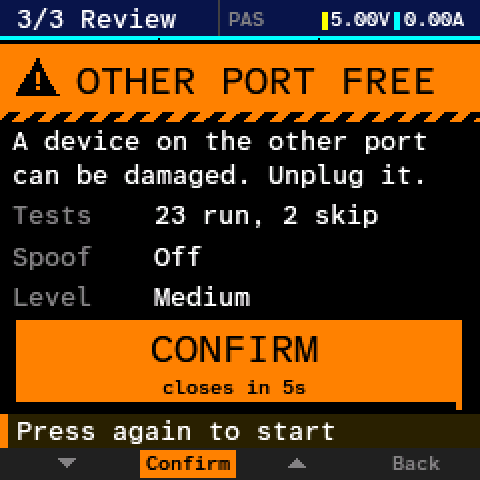
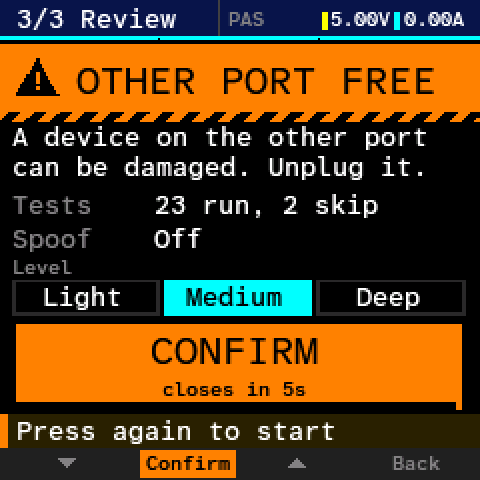
docs(readme): refresh Review and sweep pictures, Level bar text
Summary
The Review step shows the Level as a three-segment bar and a PPS/AVS sweep
row shows a 3-decimal hero with a "set ... err ..." line; the README
pictures and the Level/sweep text still showed the old key/value row and the
2-decimal hero.

Rationale
Commits a145af8d and dc7aec88 changed those pixels. README and USER_GUIDE
now describe what the screen shows.

Key Changes / Technical Details
- Re-rendered with the committed recipe (host tests, K2_DUMP, panel2png
  --scale 2, 128-colour median-cut quantize). Only three of the 25 walkthrough
  pictures changed pixel-wise: ct-review, ct-confirm, sweep-running; the other
  22 are byte-identical in pixels to the committed ones.
- README: Level bar wording (MINUS or PLUS moves between it and START, OK
  steps Light, Medium, Deep, back to Light), sweep readout bullet, sweep
  caption; fixed a missing line break before the "Review always opens" bullet.
- USER_GUIDE: Review step and Running step text, Test level setting line.
- Contact sheet old over new: runs/ui-walk/readme-sheet-old-new.png (untracked).

Changed region(s): [[0.0, 0.25, 0.9688, 0.8438], [0.5625, 0.25, 0.9062, 0.4688]]

diff --git a/docs/USER_GUIDE.md b/docs/USER_GUIDE.md
@@ -236,15 +236,15 @@ Steps of the wizard:
 
 2. **Spoof cable (2 of 3)**: the cable identity the K2 presents to the charger (it answers the charger's cable query). The list is the shared one: **Off (real cable)** (no identity), built-ins (for example EPR 50 V 5 A, CUKTECH 6A, OnePlus 100W) and your saved cables. OK picks one and goes to Review. The choice is remembered. It applies to the PD units only.
 
-3. **Review (3 of 3)**: an amber warning (**OTHER PORT FREE**: a device on the other port can be damaged, unplug it first), a short summary (Tests, Spoof), the **Level** row and START. START has the focus; its own arm and CONFIRM are the acknowledgement, so make sure the other port is empty before the first press.
-   - MINUS moves to the Level row; there OK cycles **Light**, **Medium**, **Deep** (see [Test levels](#test-levels)) and the Tests row's step count follows. PLUS goes back to START. The level of each new run starts at Settings > Test level.
+3. **Review (3 of 3)**: an amber warning (**OTHER PORT FREE**: a device on the other port can be damaged, unplug it first), a short summary (Tests, Spoof), the **Level** bar (three segments: **Light**, **Medium**, **Deep**; the picked one is filled) and START. START has the focus; its own arm and CONFIRM are the acknowledgement, so make sure the other port is empty before the first press.
+   - MINUS or PLUS moves the cursor between START and the Level bar; on the bar OK steps the pick **Light**, **Medium**, **Deep** and back to Light (see [Test levels](#test-levels)) and the Tests row's step count follows. The level of each new run starts at Settings > Test level.
    - The first OK on START opens a confirmation window: "No load! OK twice within 5 s".
    - The second OK starts the test. BACK, a changed setting, or 5 s with no OK closes the window.
    - If a real cable is between the charger and the K2 (an Ra guard check), the screen says "Cable connected: the spoof won't reach the charger." and offers **Start anyway** or **Start, skip spoof** (this run without the identity; the remembered pick stays). BACK also returns to Review.
 
 4. **Waiting for charger**: a bar counts down while the K2 waits for a source. OK or BACK cancels. On a direct plug with no VBUS the K2 tries one CC line at a time (never both): the footer reads "CC1 picked. Waking charger", then "Now on CC2. Waking charger" after a move, and the checklist row says which line holds the Rd. If nothing wakes, the footer reads "No VBUS. Hold + few secs": hold PLUS for a few seconds, which wakes some chargers.
 
-5. **Running**: the hero readout shows the step in flight, VBUS against the target on a pass-band gauge, and a grid of verdicts per step. +/- scroll the grid, OK opens a step view. OK shows **Stop** while a step is busy. A BACK hold cancels. When it ends or stops, the K2 returns to 5 V and checks it.
+5. **Running**: the hero readout shows the step in flight, VBUS against the target on a pass-band gauge, and a grid of verdicts per step. On a PPS or AVS sweep row of a Deep run the hero shows VBUS with three decimals (for example "9.000 V") and a line under it reads "set 9.000  err +0 mV": the setpoint whose request is out and VBUS minus that setpoint. Other rows keep the two-decimal hero. +/- scroll the grid, OK opens a step view. OK shows **Stop** while a step is busy. A BACK hold cancels. When it ends or stops, the K2 returns to 5 V and checks it.
 
 6. **Results**: counters (N pass, N fail, N skip, plus a "caution" counter between pass and fail when a step is a caution), a summary strip and a grid of units. OK opens the Steps list (on a "Changes" row it opens the diff against the previous run; its footer reads like "25 steps, 0 failed", or "25 steps, 2 caution" when there are cautions and no failure). A step opens its Detail (OK = Steps, long OK = Share). Long OK on Results shares the saved card once it exists.
    - A **voltage fold** is a **caution**, not a failure: a PPS or AVS level that holds its voltage but whose output drops back on a step up keeps its pass, gets an amber **CAUTION** band and the reason "folds back", and the fold is named ("folds to 9.2V above 10.5V": the lowest value measured from the fold on, and the last setpoint that still tracked). A real track break keeps its own verdict.
@@ -553,7 +553,7 @@ Radio rows: **Auto** (follows gravity), then **Manual** 0, 90, 180, 270 degrees.
 - **Screenshot**: ON allows remote and browser screen capture. Remembered. Turn it off if you do not want the screen readable over USB.
 - **Smoothing**: Off ("Raw readings"), Low ("Light calming"), Medium ("Balanced"), High ("Steady, slower"). OK cycles. Applied at once, remembered. It filters the display readings only, not the recorded data.
 - **Wake sleeping port**: OFF by default, and then the idle K2 presents no Rd and stays passive. ON lets an idle K2 hold its own Rd on one line at a time (2 s each) when that line reads like a sleeping source (about 3.0 to 3.3 V open, for example a splitter port with nothing plugged in), so the source can wake and the PD list appears without any pin. With it ON every waiting charger also sees the K2 as a sink for a moment, so turn it off again when you do not need it. It never acts during a charger test or a cable/source tool, and turning it off lets go of the line at once. Remembered.
-- **Test level**: the level each new charger test starts at: Light ("Charger test: offers at 5V"), Medium ("Charger test: levels, no sweeps", the default) or Deep ("Charger test: + PPS, AVS sweeps"). OK cycles Light, Medium, Deep. Remembered. The Review step's Level row changes the level too; that choice holds for every run until the next change or a reboot, which starts again from this setting. See [Test levels](#test-levels).
+- **Test level**: the level each new charger test starts at: Light ("Charger test: offers at 5V"), Medium ("Charger test: levels, no sweeps", the default) or Deep ("Charger test: + PPS, AVS sweeps"). OK cycles Light, Medium, Deep. Remembered. The Review step's Level bar changes the level too; that choice holds for every run until the next change or a reboot, which starts again from this setting. See [Test levels](#test-levels).
 
 ---
 

diff --git a/README.md b/README.md
@@ -113,7 +113,8 @@ Start it from **Test charger** in the Charger place. Plug the charger in with **
 </table>
 
 - Step 1 picks a preset (All tests, PD only, Legacy only, Vendor modes or Custom). **OK** picks it and goes on. Step 2 picks the cable identity to present; the Review step lists what will run.
-- The Review step's **Level** row (MINUS to reach it, **OK** to change) sets how far the run goes: **Light** lists what the charger advertises and keeps VBUS at 5 V, **Medium** (the default, set in Settings > Test level) tests every level, **Deep** adds the PPS and AVS deep sweeps (every 100 mV across each range). A Light run marks what it did not measure as listed or not run (on the card: advertised or detected), never as a pass.- Review always opens with the orange **OTHER PORT FREE** banner: a device on the other port can be damaged, so unplug it first. The K2 only knows a device is there when it sees proof of one, so the banner is always on and START carries the note "other port must be empty".
+- The Review step's **Level** bar (**Light | Medium | Deep**; MINUS or PLUS moves the cursor between it and START, **OK** steps the pick Light, Medium, Deep and back to Light) sets how far the run goes: **Light** lists what the charger advertises and keeps VBUS at 5 V, **Medium** (the default, set in Settings > Test level) tests every level, **Deep** adds the PPS and AVS deep sweeps (every 100 mV across each range). A Light run marks what it did not measure as listed or not run (on the card: advertised or detected), never as a pass.
+- Review always opens with the orange **OTHER PORT FREE** banner: a device on the other port can be damaged, so unplug it first. The K2 only knows a device is there when it sees proof of one, so the banner is always on and START carries the note "other port must be empty".
 - On Review, **OK** (Start) arms the run. The button turns orange and reads CONFIRM; a bar drains over 5 s. A second **OK** inside that time starts the run; if the 5 s pass, it disarms. Make sure the other port is empty and the output has no load before the first press.
 
 <table>
@@ -153,10 +154,11 @@ The level shows in the results and on the running page:
 </tr>
 <tr>
 <td align="center"><sub>Light: 5 V measured, the rest listed</sub></td>
-<td align="center"><sub>Deep: a PPS sweep row running</sub></td>
+<td align="center"><sub>Deep: a PPS sweep row, set and err</sub></td>
 </tr>
 </table>
 
+- A Deep run's PPS and AVS sweep rows show the voltage with three decimals (for example 9.000 V) and a line under it, "set 9.000  err +0 mV": the setpoint the K2 asked for and how far VBUS is from it. Other rows keep the two-decimal readout.
 - A Light run keeps VBUS at 5 V. In its Results only the 5 V cell is a measured pass; the other levels are drawn without a fill and the footer says "1 pass, 3 listed".
 - A Deep run steps a PPS or AVS range in 100 mV points. While a sweep row runs, the hero shows VBUS with the voltage the K2 asked for (**req**), the voltage the charger gave (**got**) and the error between them. The grid shows the range row and, below it, the **Sweep** strip for that range; the strip turns green, amber or red when the sweep closes, graded by the worst error.
 
